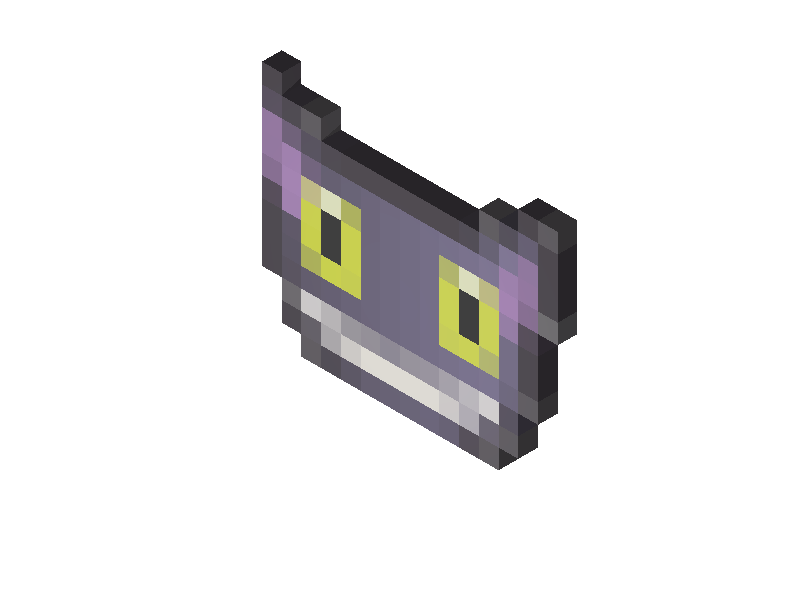
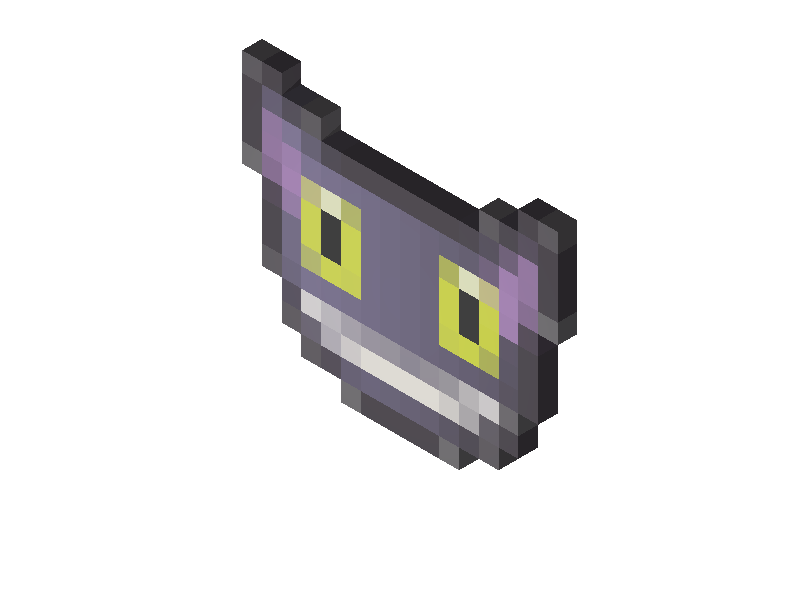
Last version

diff --git a/pcx2pov/pcx2pov.c b/pcx2pov/pcx2pov.c
@@ -26,12 +26,12 @@ int main(int argc, char *argv[]){
 
    ALLEGRO_COLOR currentcolor;
 
-   for (x = 1; x < picx; x++) {
-      for (y = 1; y < picy; y++) {
-         startx = -(picx/2*0.5)+(0.5*(x));
+   for (x = 0; x < picx; x++) {
+      for (y = 0; y < picy; y++) {
+         startx = -(picx/2*0.5)+(0.5*x);
          endx = startx + 0.5;
 
-         starty = -(picy/2*0.5)+(0.5*(y));
+         starty = (picy/2*0.5)-(0.5*y);
          endy = starty + 0.5;
 
          currentcolor = al_get_pixel(povpic, x, y);
@@ -39,7 +39,6 @@ int main(int argc, char *argv[]){
          printf("box { <-0.5,%f,%f>,<0,%f,%f> texture {pigment {color rgb<%f,%f,%f>} } }\n",
                  starty, startx, endy, endx, currentcolor.r, currentcolor.g, currentcolor.b);
       }
-      printf("\n");
    }
 
    return 0;

diff --git a/pcx2pov/README.md b/pcx2pov/README.md
@@ -1,0 +1,1 @@
+Will convert any picture format supported by Allegro into POV-Ray boxes as 3D pixels.
